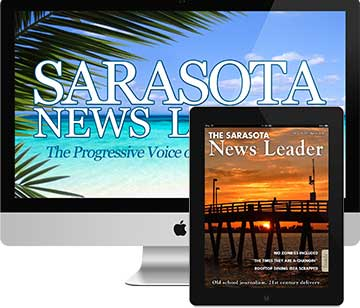
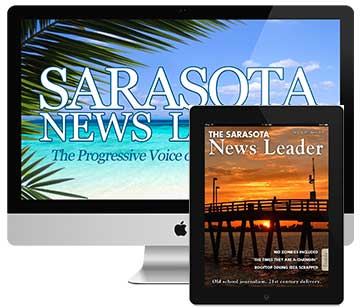
SNL images added

diff --git a/index.html b/index.html
@@ -102,7 +102,7 @@
             </div>
         <!-- item 3 -->
             <div class="col-md-4 col-sm-6 col-xs-6">
-                <a class="product-item fancybox" href="images/snl-cover.jpg" data-fancybox-group="gallery-snl" title="Sarasota Physician Guide - Cover" data-footer="<p><b>Scope of work</b>: templating, design, layout, ad design</p>Click <a href='http://newsleader.uberflip.com/t/26073-sarasota-news-leader' target='_blank'>here</a> to view the current publication online">
+                <a class="product-item fancybox" href="images/snl-cover.jpg" data-fancybox-group="gallery-snl" title="The Sarasota News Leader - Cover" data-footer="<p><b>Scope of work</b>: templating, design, layout, ad design</p>Click <a href='http://newsleader.uberflip.com/t/26073-sarasota-news-leader' target='_blank'>here</a> to view the current publication online">
                     <div class="image">
                         <img src="images/snl-cover-thumb.jpg" class="img-responsive" alt="" />
                     </div>
@@ -114,14 +114,19 @@
                 <!-- hidden gallery elements -->
                 <a class="fancybox" href="images/snl-spread-1.jpg" data-fancybox-group="gallery-snl" title="The Sarasota News Leader - Covers" data-footer='<p><b>Scope of work</b>: templating, design, layout, ad design, online distribution</p>Click <a href="http://newsleader.uberflip.com/t/26073-sarasota-news-leader" target="_blank">here</a> to view the current publication online'></a>
                 <a class="fancybox" href="images/snl-spread-2.jpg" data-fancybox-group="gallery-snl" title="The Sarasota News Leader - Inside" data-footer='<p><b>Scope of work</b>: templating, design, layout, ad design, online distribution</p>Click <a href="http://newsleader.uberflip.com/t/26073-sarasota-news-leader" target="_blank">here</a> to view the current publication online'></a>
-                <a class="fancybox" href="images/phy-guide-kidcare.jpg" data-fancybox-group="gallery-snl" title="Sarasota Physician Guide - Inside Page" data-footer='<p><b>Scope of work</b>: templating, design, layout, ad design, online distribution</p>Click <a href="http://newsleader.uberflip.com/t/26073-sarasota-news-leader" target="_blank">here</a> to view the current publication online'></a>
-                <!-- /hidden gallery elements -->
+                <a class="fancybox" href="images/snl-page-1.jpg" data-fancybox-group="gallery-snl" title="The Sarasota News Leader - Inside" data-footer='<p><b>Scope of work</b>: templating, design, layout, ad design, online distribution</p>Click <a href="http://newsleader.uberflip.com/t/26073-sarasota-news-leader" target="_blank">here</a> to view the current publication online'></a>
+                <a class="fancybox" href="images/snl-page-2.jpg" data-fancybox-group="gallery-snl" title="The Sarasota News Leader - Inside" data-footer='<p><b>Scope of work</b>: templating, design, layout, ad design, online distribution</p>Click <a href="http://newsleader.uberflip.com/t/26073-sarasota-news-leader" target="_blank">here</a> to view the current publication online'></a>
+                <a class="fancybox" href="images/snl-page-3.jpg" data-fancybox-group="gallery-snl" title="The Sarasota News Leader - Inside" data-footer='<p><b>Scope of work</b>: templating, design, layout, ad design, online distribution</p>Click <a href="http://newsleader.uberflip.com/t/26073-sarasota-news-leader" target="_blank">here</a> to view the current publication online'></a>
+                <a class="fancybox" href="images/snl-page-4.jpg" data-fancybox-group="gallery-snl" title="The Sarasota News Leader - Inside" data-footer='<p><b>Scope of work</b>: templating, design, layout, ad design, online distribution</p>Click <a href="http://newsleader.uberflip.com/t/26073-sarasota-news-leader" target="_blank">here</a> to view the current publication online'></a>
+                <a class="fancybox" href="images/snl-page-5.jpg" data-fancybox-group="gallery-snl" title="The Sarasota News Leader - Inside" data-footer='<p><b>Scope of work</b>: templating, design, layout, ad design, online distribution</p>Click <a href="http://newsleader.uberflip.com/t/26073-sarasota-news-leader" target="_blank">here</a> to view the current publication online'></a>
+                <a class="fancybox" href="images/snl-page-6.jpg" data-fancybox-group="gallery-snl" title="The Sarasota News Leader - Inside" data-footer='<p><b>Scope of work</b>: templating, design, layout, ad design, online distribution</p>Click <a href="http://newsleader.uberflip.com/t/26073-sarasota-news-leader" target="_blank">here</a> to view the current publication online'></a>
+
             </div>
         <!-- item 4 -->
             <div class="col-md-4 col-sm-6 col-xs-6">
                 <a class="product-item fancybox" href="http://placehold.it/700x600.jpg" title="Title" data-footer="<p><b>Scope of work</b>: templating, design, layout, ad design</p>">
                     <div class="image">
-                        <img src="http://placehold.it/700x600.jpg" class="img-responsive" alt="Seven - HTML Single Page Creative Portofolio Template" />
+                        <img src="http://placehold.it/700x600.jpg" class="img-responsive" alt="" />
                     </div>
                     <div class="desc">
                         <h2>Item 4</h2>
@@ -250,30 +255,15 @@
             </div>
         </div>
     </footer>
-    <!-- Bootstrap core JavaScript
+    
+    <!-- Load Javascript Libraries
     ================================================== -->
-    <!-- Placed at the end of the document so the pages load faster -->
-    <!-- <script src="https://ajax.googleapis.com/ajax/libs/jquery/1.11.2/jquery.min.js"></script> -->
     <script src="https://cdnjs.cloudflare.com/ajax/libs/jquery/2.1.3/jquery.min.js"></script>
-    <!-- <script src="../../dist/js/bootstrap.min.js"></script> -->
     <script src="http://maxcdn.bootstrapcdn.com/bootstrap/3.3.4/js/bootstrap.min.js"></script>
-    <!-- IE10 viewport hack for Surface/desktop Windows 8 bug -->
-    <!-- <script src="../../assets/js/ie10-viewport-bug-workaround.js"></script> -->
-    <!-- Ekko lightbox -->
-    <!-- <script src="js/ekko-lightbox.min.js"></script> -->
-    <!-- <script src="https://cdnjs.cloudflare.com/ajax/libs/ekko-lightbox/3.2.3/ekko-lightbox.min.js"></script> -->
-    <!-- <script src="js/ekko-lightbox-custom.js"></script> -->
-    <!-- <script src="https://cdnjs.cloudflare.com/ajax/libs/lightbox2/2.7.1/js/lightbox.min.js"></script> -->
-    <!--     <script type="text/javascript">
-    $(document).ready(function($) {
-        $(document).delegate('*[data-toggle="lightbox"]', 'click', function(event) {
-            event.preventDefault();
-            $(this).ekkoLightbox();
-        });
-    });
-     </script>
- -->
     <script src="https://cdnjs.cloudflare.com/ajax/libs/fancybox/2.1.5/jquery.fancybox.min.js"></script>
+
+    <!-- Fancybox functions
+    ================================================== -->
     <script type="text/javascript">
     $(document).ready(function() {
         $(".fancybox").fancybox({
@@ -287,18 +277,15 @@
                 }
             },
             afterLoad: function() {
-                /*var title = $(this.element).data('title') ? $(this.element).data('title') : " ";
-                this.outer.prepend( '<div class="title">' + title + '</div>' );*/
                 var footer = $(this.element).data('footer') ? $(this.element).data('footer') : " ";
                 var count = 'Image ' + (this.index + 1) + ' of ' + this.group.length;
-                /*this.outer.append( '<div class="caption">' + footer + '</div>' );*/
-                $('.fancybox-outer').append('<div class="caption">' + footer + '<p class="count">' + count +'</p></div>');
-
+                $('.fancybox-outer').append('<div class="caption">' + footer + '<p class="count">' + count + '</p></div>');
             },
-            nextClick: 'false'
+            /*nextClick: 'false',*/
         });
     }); /* ./doc ready */
     </script>
+
 </body>
 
 </html>
